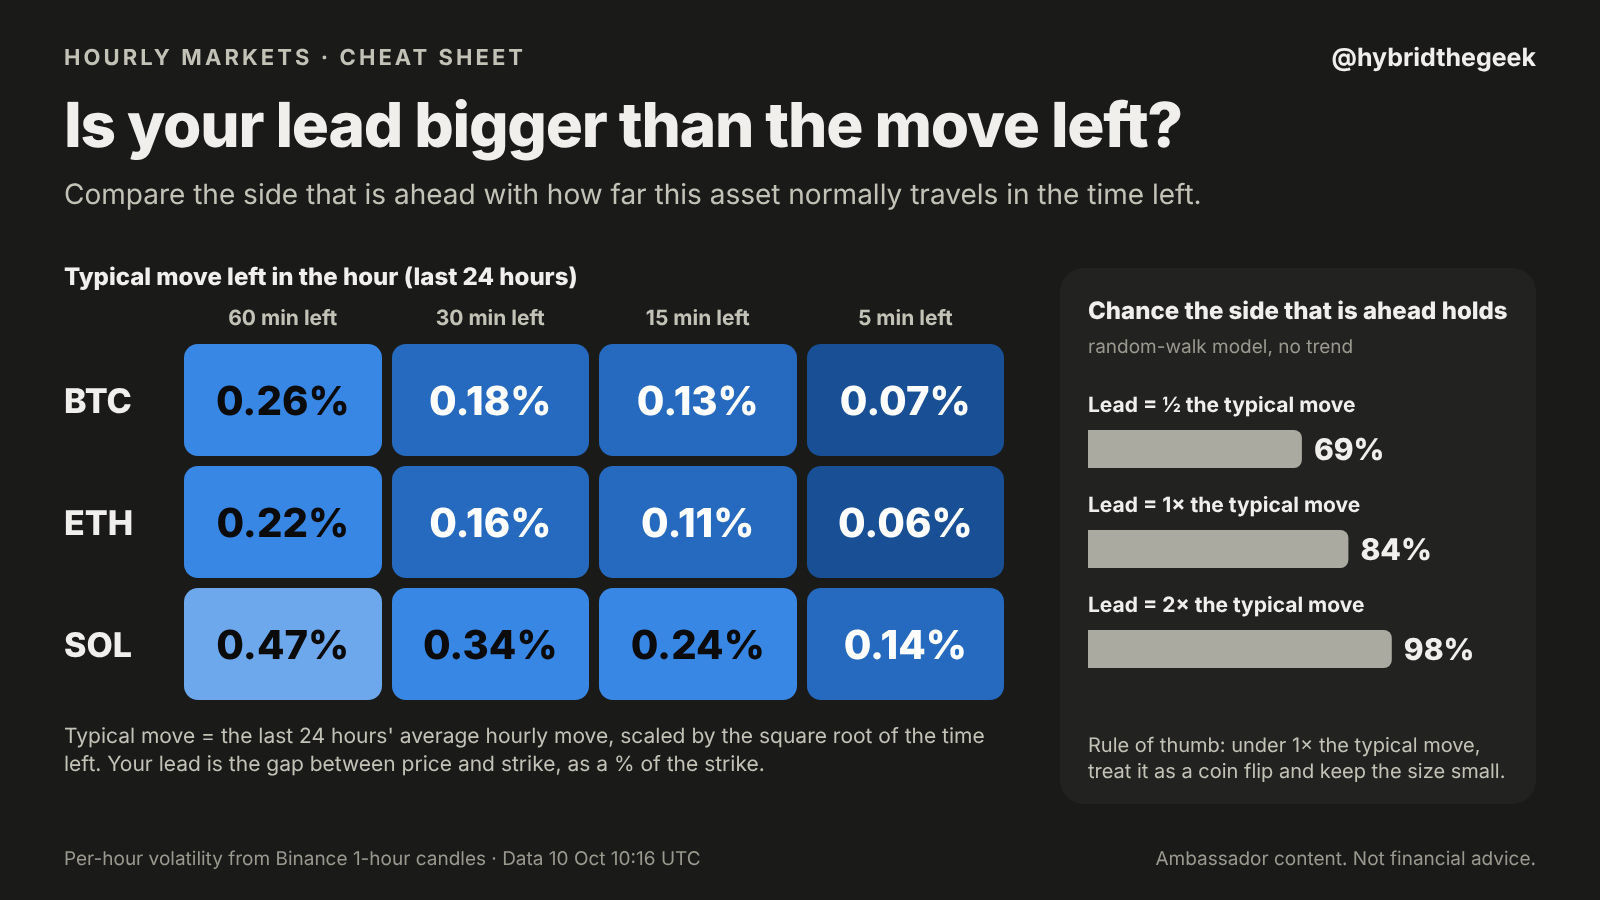
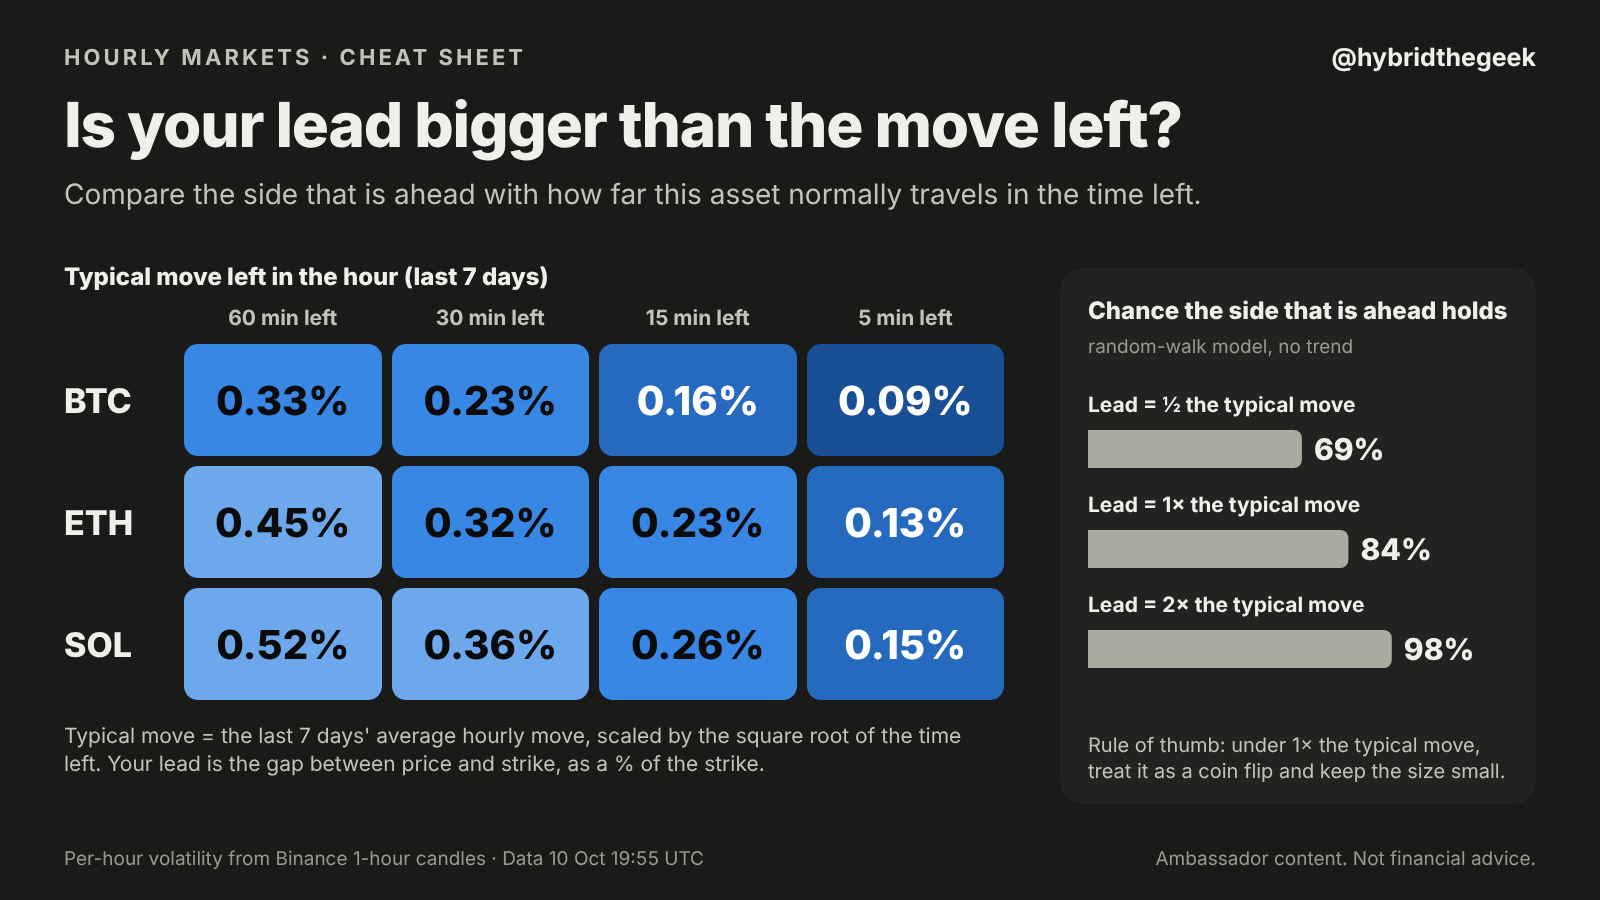
Redo C and D for the new dailies (SOL, BTC), add Sunday image set, rebuild hourly cheat sheet on 7-day vol
Claude-Session: https://claude.ai/code/session_012xCeMxyxFkg9ubeEKeM5Gv

diff --git a/post-art/build.js b/post-art/build.js
@@ -7,6 +7,7 @@ const DATA = process.argv[2], OUT = process.argv[3] || __dirname;
 const rd = f => fs.readFileSync(path.join(DATA, f), 'utf8');
 const J = f => JSON.parse(rd(f));
 const NOW = Number(rd('now.txt')) * 1000;
+const SET = process.env.SET || 'sat'; // 'sat' = first set of cards (10 Oct morning dailies); 'sun' = the dailies that open 10 Oct 16:00 UTC and settle 11 Oct 16:00 UTC
 
 // ---------- palette (dark surface; blue/red = diverging pair, validated with validate_palette.js) ----------
 const C = { surface: '#1a1a19', panel: '#222220', grid: '#2c2c2a', axis: '#46453f', text: '#f0efec', text2: '#c3c2b7',
@@ -32,7 +33,7 @@ const spot = { BTC: c1h.BTC.at(-1), ETH: c1h.ETH.at(-1), SOL: c1h.SOL.at(-1) };
 const dp = rd('daily_prices.jsonl').trim().split('\n').map(JSON.parse);
 const M = { ETH: dp[0], BTC: dp[1], SOL: dp[2] };
 for (const a of Object.keys(M)) { M[a].strike = +M[a].open; M[a].up = M[a].buy[0] * 100; M[a].dn = M[a].buy[1] * 100; }
-const DAILY_END = 1791648000000, hLeft = (DAILY_END - NOW) / 3.6e6;
+const DAILY_END = SET === 'sun' ? 1791734400000 : 1791648000000, hLeft = (DAILY_END - NOW) / 3.6e6;
 function fair(a) {
   const r = lr(c1h[a]), s7 = rms(r), s36 = rms(r.slice(-36)), s24 = rms(r.slice(-24)), need = Math.log(M[a].strike / spot[a]);
   const pu = s => phi(-need / (s * Math.sqrt(hLeft)));
@@ -40,7 +41,7 @@ function fair(a) {
   return { s7, s24, s36, lo: Math.min(...p), hi: Math.max(...p), mid: (p[0] + p[1]) / 2, leadPct: (spot[a] / M[a].strike - 1) * 100 };
 }
 const F = { ETH: fair('ETH'), BTC: fair('BTC'), SOL: fair('SOL') };
-const hourlyPct = a => rms(lr(c1h[a].slice(-25))) * 100;
+const hourlyPct = a => rms(lr(c1h[a].slice(-25))) * 100, hourly7Pct = a => rms(lr(c1h[a])) * 100;
 const wk = { open: 86085, hi: Math.max(...btcW.map(k => k.h)), lo: Math.min(...btcW.map(k => k.l)) };
 const wkPct = (spot.BTC / wk.open - 1) * 100;
 const w24 = klines('btc1h_168.json').slice(-24), box24 = (Math.max(...w24.map(k => k.h)) / Math.min(...w24.map(k => k.l)) - 1) * 100;
@@ -51,8 +52,8 @@ const rB = lr(c1h.BTC), tCalm = [touch(rms(rB.slice(-36))), touch(rms(rB.slice(-
 let tFlushTool = NaN; try { const m = rd('ladder.txt').match(/↓80,000[^\n]*\|\s*([\d.]+)%\s+([\d.]+)%\s+([\d.]+)%\s+([\d.]+)%\s+([\d.]+)%/); if (m) tFlushTool = +m[5]; } catch (e) {}
 const flush = [tFlush7, isNaN(tFlushTool) ? tFlush7 * 1.3 : Math.max(tFlushTool, tFlush7)];
 const calm = [Math.min(...tCalm), Math.max(...tCalm)];
-const NUM = { stamp, hLeft, hTouch, spot, M, F, hourly: { BTC: hourlyPct('BTC'), ETH: hourlyPct('ETH'), SOL: hourlyPct('SOL') }, wk, wkPct, box24, ladYes, calm, flush };
-fs.writeFileSync(path.join(OUT, 'numbers.json'), JSON.stringify(NUM, null, 1));
+const NUM = { stamp, hLeft, hTouch, spot, M, F, hourly: { BTC: hourlyPct('BTC'), ETH: hourlyPct('ETH'), SOL: hourlyPct('SOL') }, hourly7: { BTC: hourly7Pct('BTC'), ETH: hourly7Pct('ETH'), SOL: hourly7Pct('SOL') }, wk, wkPct, box24, ladYes, calm, flush };
+fs.writeFileSync(path.join(OUT, SET === 'sat' ? 'numbers.json' : `numbers-${SET}.json`), JSON.stringify(NUM, null, 1));
 
 // ---------- components ----------
 function lineChart(o) {
@@ -116,7 +117,7 @@ const wat = h => { const x = ((h % 24) + 24) % 24, ap = x >= 12 ? 'pm' : 'am', y
 const cards = {};
 
 // ---------- A: ETH Daily ----------
-{
+if (SET === 'sat') {
   const T0 = 1791561600000, T1 = DAILY_END, strike = M.ETH.strike, pts = eth5.map(k => [k.t, k.c]);
   const lo = Math.min(...pts.map(p => p[1]), strike), hi = Math.max(...pts.map(p => p[1]), strike), pad = (hi - lo) * .16;
   const y0 = Math.floor((lo - pad) / 10) * 10, y1 = Math.ceil((hi + pad) / 10) * 10, yt = []; for (let v = y0; v <= y1; v += 10) yt.push(v);
@@ -136,7 +137,7 @@ const cards = {};
 }
 
 // ---------- B: BTC Daily ----------
-{
+if (SET === 'sat') {
   const T0 = btcW[0].t, T1 = NOW + hrs(11), strike = M.BTC.strike, pts = btcW.map(k => [k.t, k.c]);
   const y0 = 80000, y1 = 87000, yt = [80000, 81000, 82000, 83000, 84000, 85000, 86000, 87000];
   const xt = [[T0, 'Mon']]; ['Tue', 'Wed', 'Thu', 'Fri', 'Sat'].forEach((d, i) => xt.push([1791172800000 + hrs(19) + i * hrs(24), d]));
@@ -151,7 +152,7 @@ const cards = {};
 }
 
 // ---------- C: SOL Daily ----------
-{
+if (SET === 'sat') {
   const bars = [['BTC', NUM.hourly.BTC, C.neutral], ['ETH', NUM.hourly.ETH, C.neutral], ['SOL', NUM.hourly.SOL, C.violet]];
   const W = 956, H = 532, x0 = 190, xMax = Math.ceil(NUM.hourly.SOL * 10 + 1) / 10 + .1, X = lin(0, xMax, x0, W - 60);
   let s = `<svg width="${W}" height="${H}" viewBox="0 0 ${W} ${H}">` + T(0, 34, 'Typical move per hour, last 24 hours', { size: 24, weight: 800, fill: C.text });
@@ -170,7 +171,7 @@ const cards = {};
 }
 
 // ---------- F: BTC weekly ladder, retest 80K ----------
-{
+if (SET === 'sat') {
   const T0 = btcW[0].t, T1 = LADDER_END + 60000, pts = btcW.map(k => [k.t, k.c]), nowP = pts.at(-1);
   const y0 = 79500, y1 = 87500, yt = [80000, 81000, 82000, 83000, 84000, 85000, 86000, 87000], lowK = btcW.reduce((a, k) => k.l < a.l ? k : a);
   const xt = [[T0, 'Mon']]; ['Tue', 'Wed', 'Thu', 'Fri', 'Sat', 'Sun'].forEach((d, i) => xt.push([1791172800000 + hrs(19) + i * hrs(24), d]));
@@ -195,7 +196,7 @@ const cards = {};
 }
 
 // ---------- D: the last daily that settles inside the window ----------
-{
+if (SET === 'sat') {
   const t0 = Date.UTC(2026, 9, 10, 6), t1 = Date.UTC(2026, 9, 12, 6), W = 956, H = 532, X = lin(t0, t1, 64, W - 64);
   const at = (d, h, m = 0) => Date.UTC(2026, 9, d, h, m), dn = ['Sun', 'Mon', 'Tue', 'Wed', 'Thu', 'Fri', 'Sat'];
   let s = `<svg width="${W}" height="${H}" viewBox="0 0 ${W} ${H}"><defs><pattern id="h" width="14" height="14" patternUnits="userSpaceOnUse" patternTransform="rotate(45)"><rect width="14" height="14" fill="${C.panel}"/><line x1="0" y1="0" x2="0" y2="14" stroke="${C.axis}" stroke-width="5"/></pattern></defs>`;
@@ -227,10 +228,10 @@ const cards = {};
 // ---------- E: hourly cheat sheet ----------
 {
   const mins = [60, 30, 15, 5], assets = ['BTC', 'ETH', 'SOL'], step = v => v < .1 ? ['#184f95', '#fff'] : v < .2 ? ['#256abf', '#fff'] : v < .35 ? ['#3987e5', '#0b0b0b'] : ['#6da7ec', '#0b0b0b'];
-  let g = `<div style="font-size:24px;font-weight:800;margin-bottom:14px">Typical move left in the hour (last 24 hours)</div><div style="display:grid;grid-template-columns:110px repeat(4,1fr);gap:10px;width:940px">` +
+  let g = `<div style="font-size:24px;font-weight:800;margin-bottom:14px">Typical move left in the hour (last 7 days)</div><div style="display:grid;grid-template-columns:110px repeat(4,1fr);gap:10px;width:940px">` +
     `<div></div>` + mins.map(m => `<div style="font-size:21px;font-weight:700;color:${C.text2};text-align:center;padding-bottom:4px">${m} min left</div>`).join('');
-  assets.forEach(a => { g += `<div style="font-size:34px;font-weight:800;display:flex;align-items:center">${a}</div>`; mins.forEach(m => { const v = NUM.hourly[a] * Math.sqrt(m / 60), [bg, fg] = step(v); g += `<div style="background:${bg};color:${fg};border-radius:14px;height:112px;display:flex;align-items:center;justify-content:center;font-size:40px;font-weight:800">${f0(v, 2)}%</div>`; }); });
-  g += `</div><div style="margin-top:22px;font-size:21px;color:${C.text2};width:940px;line-height:1.35">Typical move = the last 24 hours' average hourly move, scaled by the square root of the time left. Your lead is the gap between price and strike, as a % of the strike.</div>`;
+  assets.forEach(a => { g += `<div style="font-size:34px;font-weight:800;display:flex;align-items:center">${a}</div>`; mins.forEach(m => { const v = NUM.hourly7[a] * Math.sqrt(m / 60), [bg, fg] = step(v); g += `<div style="background:${bg};color:${fg};border-radius:14px;height:112px;display:flex;align-items:center;justify-content:center;font-size:40px;font-weight:800">${f0(v, 2)}%</div>`; }); });
+  g += `</div><div style="margin-top:22px;font-size:21px;color:${C.text2};width:940px;line-height:1.35">Typical move = the last 7 days' average hourly move, scaled by the square root of the time left. Your lead is the gap between price and strike, as a % of the strike.</div>`;
   const rows = [['Lead = ½ the typical move', 69], ['Lead = 1× the typical move', 84], ['Lead = 2× the typical move', 98]];
   let b = '<svg width="420" height="300" viewBox="0 0 420 300">'; rows.forEach(([l, p], i) => { const y = i * 100; b += T(0, y + 22, l, { size: 21, weight: 700, fill: C.text }) + `<path d="M0 ${y + 40}H${p * 3.1 - 8}a8 8 0 0 1 8 8v22a8 8 0 0 1 -8 8H0Z" fill="${C.text2}" opacity=".85"/>` + T(p * 3.1 + 12, y + 70, p + '%', { size: 30, weight: 800, fill: C.text }); }); b += '</svg>';
   cards.E = card({ tag: 'Hourly markets · Cheat sheet', h1: 'Is your lead bigger than the move left?',
@@ -240,7 +241,7 @@ const cards = {};
 }
 
 // ---------- QT: Packs ----------
-{
+if (SET === 'sat') {
   const W = 956, H = 532; let s = `<svg width="${W}" height="${H}" viewBox="0 0 ${W} ${H}">`;
   const leg = (x, y, ok, n) => `<rect x="${x}" y="${y}" width="150" height="86" rx="16" fill="${C.panel}" stroke="${C.axis}" stroke-width="2"/>` + T(x + 18, y + 34, 'Leg ' + n, { size: 20, weight: 700, fill: C.text2 }) + `<circle cx="${x + 112}" cy="${y + 43}" r="22" fill="${ok ? C.good : C.crit}"/><path d="${ok ? `M${x + 102} ${y + 43}l8 8l14 -15` : `M${x + 103} ${y + 34}l18 18M${x + 121} ${y + 34}l-18 18`}" stroke="#fff" stroke-width="5" fill="none" stroke-linecap="round" stroke-linejoin="round"/>`;
   const row = (y, oks, res, sub) => oks.map((o, i) => leg(i * 178, y, o, i + 1)).join('') + `<path d="M${3 * 178 + 2} ${y + 43}h40m-12 -12l12 12l-12 12" stroke="${C.muted}" stroke-width="4" fill="none" stroke-linecap="round"/>` + T(3 * 178 + 62, y + 40, res, { size: 30, weight: 800, fill: C.text }) + T(3 * 178 + 62, y + 70, sub, { size: 20, fill: C.text2 });
@@ -260,8 +261,51 @@ const cards = {};
     foot: 'Pack rules from the Limitless docs. Challenge dates (Oct 7 to 28) per the campaign post: check the official post.' });
 }
 
+// ---------- SUN set: the dailies that open Sat 16:00 UTC and settle Sun 16:00 UTC ----------
+if (SET === 'sun') {
+  const dn = ['Sun', 'Mon', 'Tue', 'Wed', 'Thu', 'Fri', 'Sat'];
+  // ---- C2: SOL daily, long way to go ----
+  {
+    const bars = ['BTC', 'ETH', 'SOL'].map(a => [a, NUM.hourly[a] * Math.sqrt(hLeft), a === 'SOL' ? C.violet : C.neutral]);
+    const W = 956, H = 532, x0 = 190, xMax = Math.ceil(Math.max(...bars.map(b => b[1])) * 2 + 1) / 2, X = lin(0, xMax, x0, W - 60);
+    let sv = '<svg width="' + W + '" height="' + H + '" viewBox="0 0 ' + W + ' ' + H + '">' + T(0, 34, 'Typical move in the ' + f0(hLeft) + ' hours left (last-24h volatility)', { size: 24, weight: 800, fill: C.text });
+    for (let v = 0; v <= xMax + .001; v += .5) sv += '<line x1="' + X(v) + '" x2="' + X(v) + '" y1="64" y2="' + (H - 56) + '" stroke="' + C.grid + '" stroke-width="1.5"/>' + T(X(v), H - 24, f0(v, 1) + '%', { anchor: 'middle', size: 19 });
+    bars.forEach(([n, v, col], i) => { const y = 100 + i * 120;
+      sv += T(0, y + 48, n, { size: 34, weight: 800, fill: C.text }) + '<path d="M' + x0 + ' ' + (y + 6) + 'H' + (X(v) - 8) + 'a8 8 0 0 1 8 8v52a8 8 0 0 1 -8 8H' + x0 + 'Z" fill="' + col + '"/>' + T(X(v) + 14, y + 52, f0(v, 1) + '%', { size: 30, weight: 800, fill: C.text }); });
+    const gap = Math.abs(F.SOL.leadPct), lx = X(gap), ys = 100 + 2 * 120;
+    sv += '<line x1="' + lx + '" x2="' + lx + '" y1="' + (ys - 12) + '" y2="' + (ys + 92) + '" stroke="' + C.text + '" stroke-width="5" stroke-linecap="round"/>' + T(lx + 14, ys + 104, "SOL's gap to its strike: " + f0(gap, 2) + '%', { size: 22, weight: 700, fill: C.text, halo: 1 }) + '</svg>';
+    const sgap = M.SOL.up + M.SOL.dn - 100, dlt = spot.SOL - M.SOL.strike;
+    cards.C2 = card({ tag: 'SOL · Daily Up/Down', h1: f0(hLeft) + ' hours is a long time for SOL.',
+      sub: 'SOL is $' + f0(Math.abs(dlt), 2) + (dlt < 0 ? ' under' : ' over') + ' its strike. A typical hour moves it ~$' + f0(spot.SOL * NUM.hourly.SOL / 100, 2) + ', so a typical day moves it ~$' + f0(spot.SOL * NUM.hourly.SOL / 100 * Math.sqrt(24), 1) + '.',
+      left: sv, panel: dailyPanel('SOL', '$' + f0((M.SOL.up + M.SOL.dn) / 100, 2), 'to hold both sides of a $1 payout. That ' + f0(sgap) + '¢ gap (spread, slippage) is the real opponent.'),
+      foot: 'Settles Sun 12pm ET (5pm WAT) · Binance SOL/USDT 1-min close · Data ' + stamp });
+  }
+  // ---- D2: BTC, the last daily that settles inside the window ----
+  {
+    const T0 = Date.UTC(2026, 9, 9, 16), T1 = Date.UTC(2026, 9, 11, 21), S0 = Date.UTC(2026, 9, 10, 16), S1 = DAILY_END, CUT = Date.UTC(2026, 9, 11, 19, 6), strike = M.BTC.strike, prev = 82810;
+    const pts = klines('btc1h_168.json').filter(k => k.t >= T0 && k.t + 36e5 <= NOW).map(k => [k.t + 36e5, k.c]); pts.push([NOW, spot.BTC]);
+    const lo = Math.min(...pts.map(q => q[1]), prev), hi = Math.max(...pts.map(q => q[1])), y0 = Math.floor((lo - 150) / 500) * 500, y1 = Math.ceil((hi + 150) / 500) * 500, yt = []; for (let v = y0; v <= y1; v += 500) yt.push(v);
+    const xt = []; for (let t = T0; t <= T1; t += hrs(12)) { const d = new Date(t); xt.push([t, dn[d.getUTCDay()] + ' ' + String(d.getUTCHours()).padStart(2, '0') + ':00']); }
+    const svg = lineChart({ x0: T0, x1: T1, y0, y1, yt, yfmt: v => f0(v / 1000, 1) + 'K', xt, pts,
+      marks: [{ t: NOW, v: spot.BTC, label: 'Now ' + f0(spot.BTC), dx: -12, dy: -22, anchor: 'end' }],
+      extra: (X, Y, m, W, H) => {
+        let e = '<rect x="' + X(S0) + '" y="' + m.t + '" width="' + (X(S1) - X(S0)) + '" height="' + (Y(strike) - m.t) + '" fill="' + C.up + '" opacity=".09"/><rect x="' + X(S0) + '" y="' + Y(strike) + '" width="' + (X(S1) - X(S0)) + '" height="' + (H - m.b - Y(strike)) + '" fill="' + C.down + '" opacity=".09"/>';
+        e += '<line x1="' + X(T0) + '" x2="' + X(S0) + '" y1="' + Y(prev) + '" y2="' + Y(prev) + '" stroke="' + C.axis + '" stroke-width="2.5"/>' + T(X(T0) + 10, Y(prev) - 10, 'Yesterday ' + f0(prev) + ' · UP', { size: 19, fill: C.text2, halo: 1 });
+        e += '<line x1="' + X(S0) + '" x2="' + X(S1) + '" y1="' + Y(strike) + '" y2="' + Y(strike) + '" stroke="' + C.text + '" stroke-width="2.5"/>' + T(X(S1) - 8, Y(strike) + 30, 'Strike $' + f0(strike, 2), { anchor: 'end', size: 21, weight: 700, fill: C.text, halo: 1 });
+        e += '<rect x="' + (X(S0) + 10) + '" y="' + (m.t + 10) + '" width="16" height="16" rx="3" fill="' + C.up + '"/>' + T(X(S0) + 34, m.t + 24, 'UP wins above the strike', { size: 20, fill: C.text2 });
+        e += '<rect x="' + (X(S0) + 10) + '" y="' + (H - m.b - 34) + '" width="16" height="16" rx="3" fill="' + C.down + '"/>' + T(X(S0) + 34, H - m.b - 20, 'DOWN wins below it', { size: 20, fill: C.text2 });
+        e += T(X(S1) - 10, m.t + 54, 'Settles Sun 16:00 UTC', { anchor: 'end', size: 20, weight: 700, fill: C.text, halo: 1 });
+        e += '<line x1="' + X(CUT) + '" x2="' + X(CUT) + '" y1="' + m.t + '" y2="' + (H - m.b) + '" stroke="' + C.text + '" stroke-width="4"/>' + T(X(CUT) - 10, m.t + 84, 'Competition ends 19:06 UTC', { anchor: 'end', size: 20, weight: 700, fill: C.text, halo: 1 });
+        return e; } });
+    cards.D2 = card({ tag: 'BTC · Daily Up/Down', h1: 'The last daily that settles in time.',
+      sub: 'It settles Sunday at 16:00 UTC, before the 19:06 UTC cutoff. BTC is ' + (spot.BTC >= strike ? '+' : '−') + '$' + f0(Math.abs(spot.BTC - strike)) + ' on its strike with ' + f0(hLeft) + ' hours left.',
+      left: svg, panel: dailyPanel('BTC', 'No edge', 'Price is close to fair value on both sides. If you trade it at all, keep it tiny.'),
+      foot: 'Settles Sun 12pm ET (5pm WAT) · Binance BTC/USDT 1-min close · Data ' + stamp });
+  }
+}
+
 // ---------- render ----------
-const names = { A: 'A-eth-daily', B: 'B-btc-daily', C: 'C-sol-daily', F: 'F-btc-80k-ladder', D: 'D-last-daily-window', E: 'E-hourly-cheatsheet', Q: 'QT-packs-100k-lmts' };
+const names = { A: 'A-eth-daily', B: 'B-btc-daily', C: 'C-sol-daily', F: 'F-btc-80k-ladder', D: 'D-last-daily-window', E: 'E-hourly-cheatsheet', Q: 'QT-packs-100k-lmts', C2: 'C2-sol-daily-sun', D2: 'D2-btc-last-daily' };
 (async () => {
   const b = await chromium.launch({ executablePath: process.env.CHROME || '/opt/pw-browsers/chromium-1194/chrome-linux/chrome' });
   const pg = await b.newPage({ viewport: { width: 1600, height: 900 } });

diff --git a/posts/2026-10-10-w41-posts.md b/posts/2026-10-10-w41-posts.md
@@ -163,7 +163,7 @@ https://limitless.exchange/markets/[SLUG]?r=J3H8LSQBZG
 
 ## E. Evening hourly (US session / Nigerian night)  | image: post-art/E-hourly-cheatsheet.png
 
-Rule of thumb: the lead should be bigger than the typical move left in the hour (BTC ~0.26%/h, ETH ~0.22%/h, SOL ~0.47%/h in the last 24h, scaled by the square root of hours left).
+Rule of thumb: the lead should be bigger than the typical move left in the hour (BTC ~0.33%/h, ETH ~0.45%/h, SOL ~0.52%/h over the last 7 days, scaled by the square root of hours left).
 
 ```
 Hourly check ⏱ [ASSET] strike $[OPEN], now ~$[NOW], [MM] minutes left.
@@ -211,4 +211,68 @@ The challenge runs Oct 7 to 28. Plenty of time, no need to rush or ape.
 Try one $1 Pack, see the mechanics, then decide. Drop your first legs below 👇
 
 (Ambassador post. Not financial advice. Only play with what you can afford to lose.)
+```
+
+---
+
+## UPDATE Sat 10 Oct 19:55 UTC (20:55 WAT): C and D redone for the new dailies
+
+The first C (SOL) and D (template) were missed and their markets have moved on. The morning dailies settled **all UP** (ETH 2,512.52 vs strike 2,487.12, +1.0%; SOL 110.54 vs 109.53, +0.9%; BTC 83,048.75 vs 82,810, +0.3%). The new dailies opened Sat 16:00 UTC and settle **Sun 16:00 UTC**, before the 19:06 UTC cutoff. All three are coin flips (model 48-52%), so C and D are "no edge" posts. Data time 19:55 UTC. Images: `post-art/C2-sol-daily-sun.png`, `post-art/D2-btc-last-daily.png`. E's image was rebuilt on 7-day volatility (BTC ~0.33%/h, ETH ~0.45%, SOL ~0.52%) because the last 24h were unusually quiet (BTC ~0.10%/h).
+
+### C2. SOL Daily (post now)
+
+```
+SOL is $0.08 under its daily strike with 20 hours left. That's not a gap. That's a rounding error. Lol!
+
+A typical SOL hour is ~$0.28. A typical day is ~$1.4. Eight cents doesn't even clear one quiet hour.
+
+Now, you'd ask: "So which side?"
+
+Walk with me…
+
+→ Strike: $110.54 | SOL now: ~$110.46
+→ Typical move in the 20 hours left: SOL ~1.1%, ETH ~0.7%, BTC ~0.5% (last 24 hours, a quiet stretch)
+→ UP costs ~53¢, DOWN ~54¢. That's $1.07 to hold both sides of a $1 payout
+→ My numbers: UP 48%, DOWN 52%
+
+So it's a coin flip, and you pay a 7¢ gap (spread, slippage, e.t.c) to pick a side. Hence, no call from me tonight. If I had to lean, DOWN by a hair, but not at 54¢.
+
+Time is what turns a lead into a signal. At 20 hours, nothing means anything. At 20 minutes, a lead means a lot.
+
+Settles Sunday noon ET (5pm WAT), Binance SOL/USDT 1-minute close.
+
+Would you pay 54¢ for a coin flip? 👇
+
+@trylimitless ambassador post. Not financial advice.
+https://limitless.exchange/markets/solana-up-or-down-daily-p-1791637529851?r=J3H8LSQBZG
+```
+
+### D2. BTC Daily, the last one that settles in the window (post ~30-45 min after C2)
+
+The first line is optional (it says your DOWN leans on ETH and BTC lost). Delete it if you would rather not mention it.
+
+```
+All three dailies settled UP today. My DOWN leans on ETH and BTC both lost. 🫡
+
+A new daily is live now, and it's the last one that settles before this competition closes.
+
+Now, you'd ask: "So what's the call this time?"
+
+Walk with me…
+
+→ Strike: $83,048.75 | BTC now: ~$83,085
+→ Lead: +$38, with 20 hours left
+→ Typical BTC move in that time: ~0.5% on the last 24 quiet hours (~$390), ~1.5% on the whole week (~$1,200)
+→ UP ~56¢, DOWN ~49¢. My numbers say 51/49
+
+My call: no edge, so no big opinion. A lead only matters when it's bigger than the move left, and right now $38 is a small fraction of it.
+
+If you trade it, keep it tiny. If you don't, that's a position too.
+
+Settles Sunday noon ET (5pm WAT), Binance BTC/USDT 1-minute close. That's before the 19:06 UTC cutoff.
+
+UP or DOWN? 👇
+
+@trylimitless ambassador post. Not financial advice.
+https://limitless.exchange/markets/btc-up-or-down-daily-p-1791637522268?r=J3H8LSQBZG
 ```

diff --git a/HANDOFF.md b/HANDOFF.md
@@ -156,3 +156,4 @@ Plain HTML/CSS/JS with no build step, plus serverless functions. See `phase-1/RE
 - **Tooling note:** in this environment a hook rejects any command containing `python3` (even `uv run python3`); `uv run python ...` works.
 - **Images for the 10 Oct posts:** `post-art/*.png` (1600x900: A-eth-daily, B-btc-daily, C-sol-daily, F-btc-80k-ladder, D-last-daily-window, E-hourly-cheatsheet, QT-packs-100k-lmts), stamped with their data time (10:16 UTC). Regenerate with `bash post-art/fetch.sh <dir> && node post-art/build.js <dir> post-art` (needs network; update the daily slugs in `fetch.sh` when new markets open). `post-art/numbers.json` holds the numbers used. ¢ prices drift within minutes (SOL daily UP went 73¢ -> 59¢ in 15 min), so refresh before posting if more than ~1 hour old.
 - **Correction:** an early B draft said BTC sat "inside a 1% box for 36 hours". The data says 24h inside a 1.5% range (36h = 2.4%). Fixed in the post and image.
+- **10 Oct 19:55 UTC:** the morning dailies (ETH DOWN call, BTC DOWN lean, SOL no call) all settled UP, so Franklin's two DOWN leans lost. New dailies (settle 11 Oct 16:00 UTC): `eth-up-or-down-daily-p-1791637523482` (strike 2512.52), `btc-up-or-down-daily-p-1791637522268` (83048.75), `solana-up-or-down-daily-p-1791637529851` (110.54); all ~coin flips. C2/D2 posts and images are in `posts/2026-10-10-w41-posts.md` and `post-art/` (`SET=sun` mode in `fetch.sh`/`build.js`). Last-24h vol is unusually low (BTC 0.10%/h vs 0.33% over 7d), so edges flip with the volatility window; E card now uses 7-day vol.
